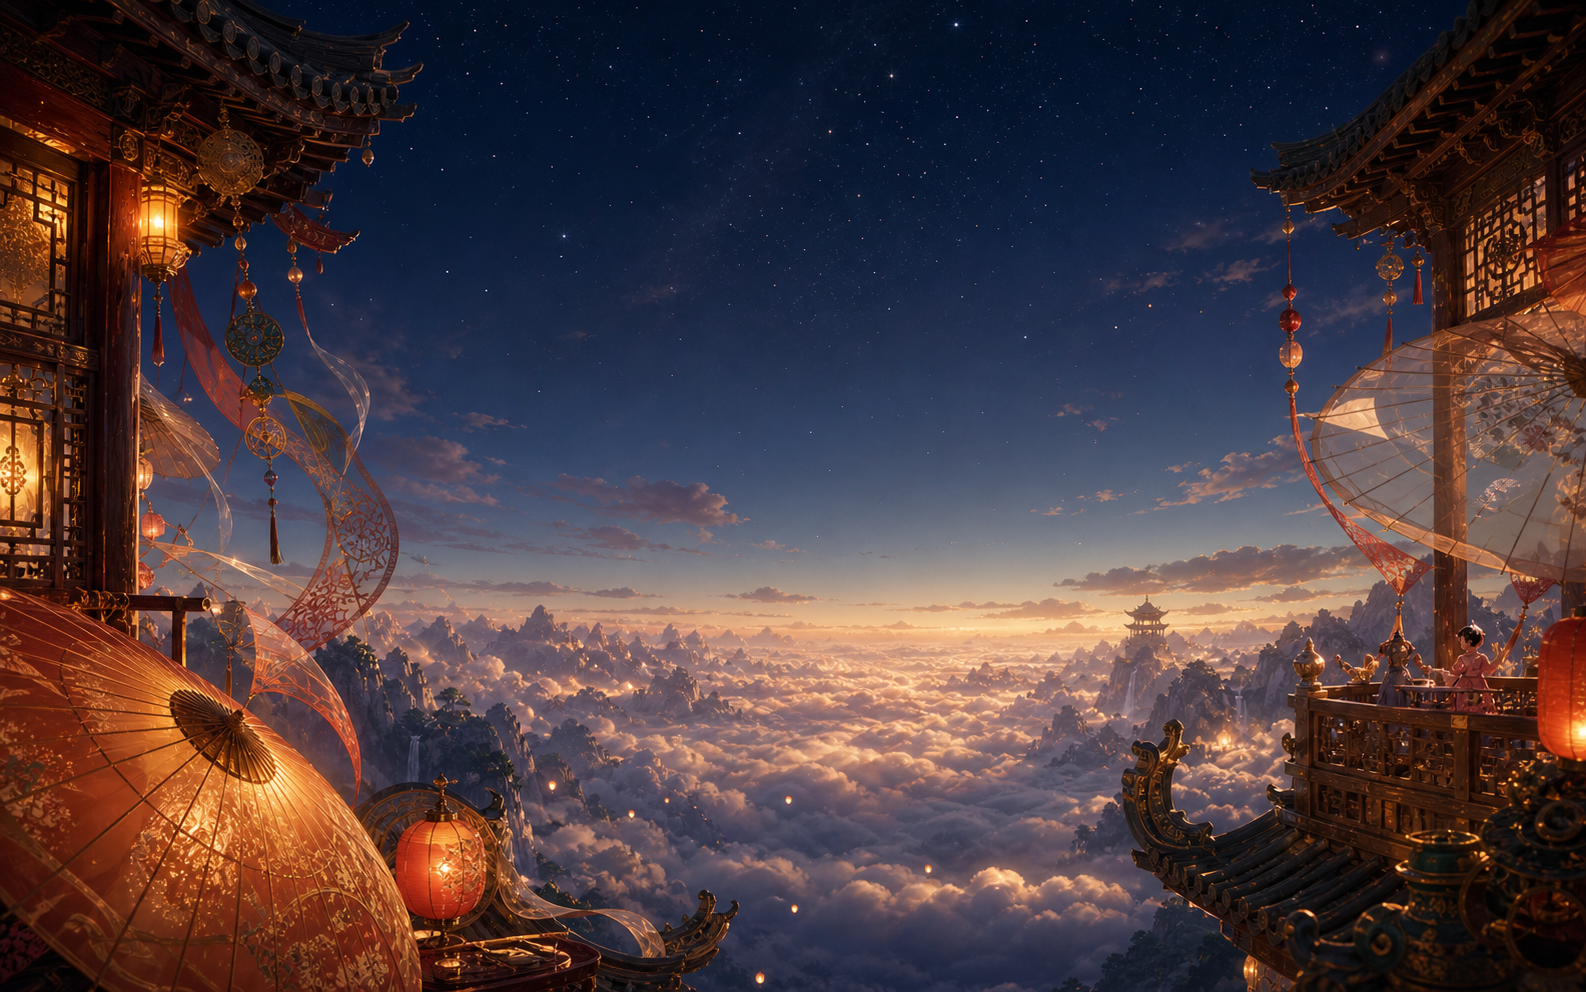
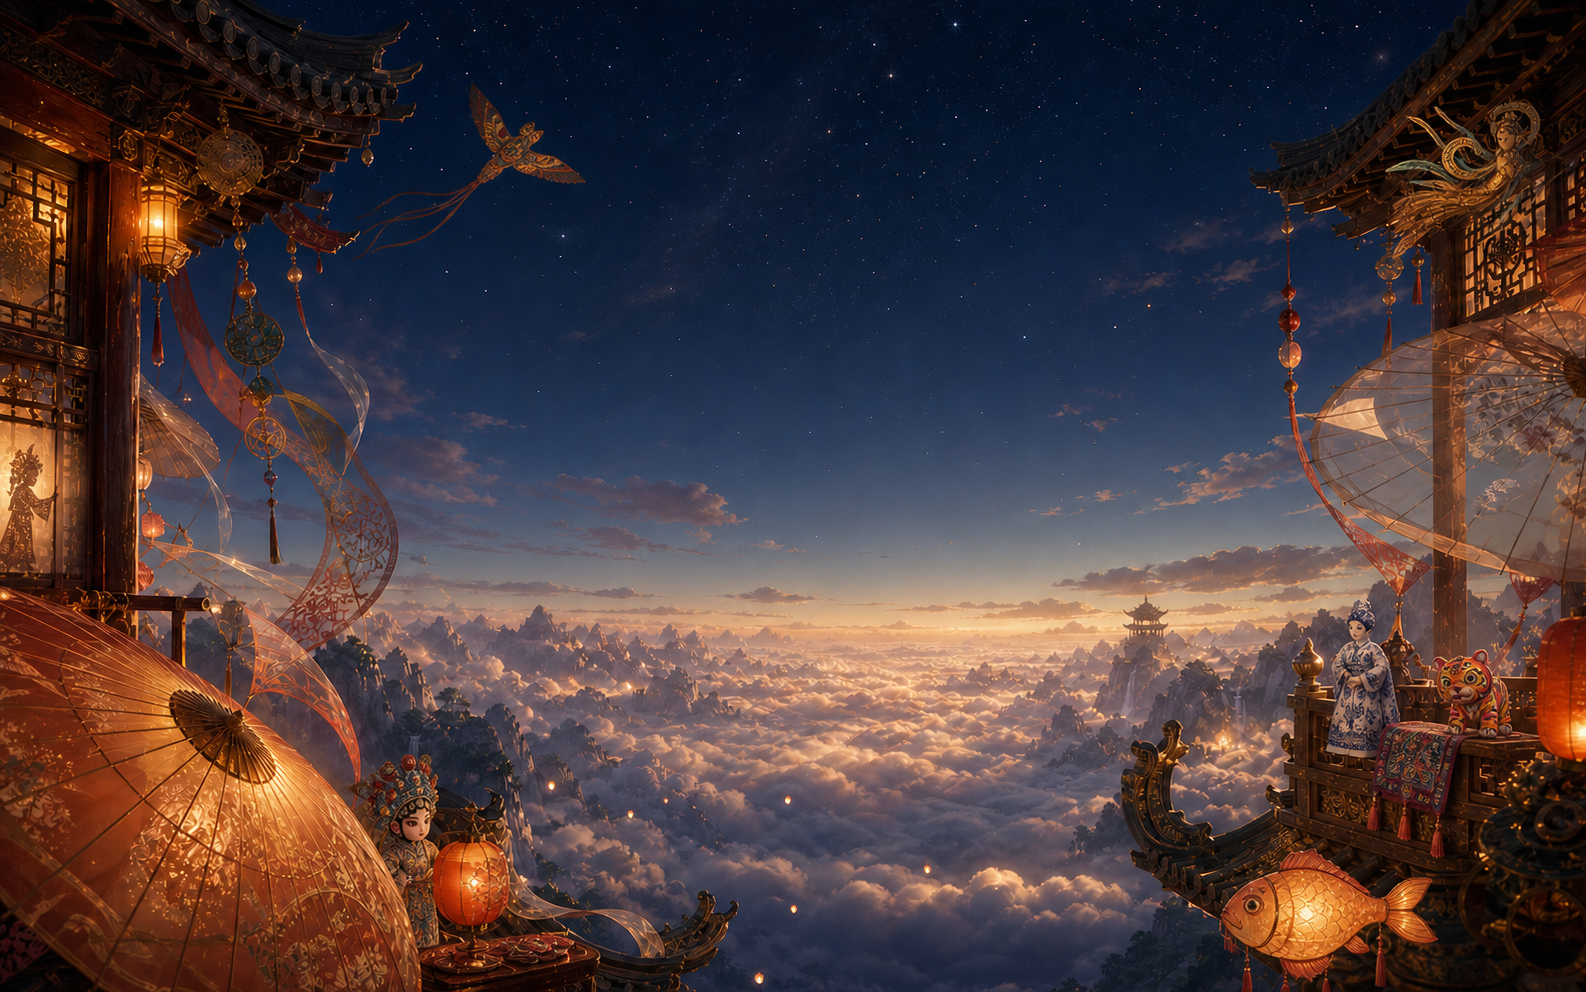
Center fish model on clean heritage backdrop

diff --git a/styles.css b/styles.css
@@ -532,10 +532,10 @@ button { font: inherit; color: inherit; }
 }
 .result-model-stage {
   position: absolute;
-  left: 34%;
-  top: 12%;
-  width: 41%;
-  height: 63%;
+  left: 51%;
+  top: 9%;
+  width: 45%;
+  height: 68%;
   translate: -50% 18px;
   z-index: 4;
   opacity: 0;
@@ -693,30 +693,45 @@ button { font: inherit; color: inherit; }
 .is-active .result-actions { opacity: 1; }
 
 .scene-result.has-3d-model .reveal-card {
-  left: 72%;
-  top: 31%;
-  width: 24%;
-  min-height: 31%;
-  padding: 24px 25px;
-  background: linear-gradient(135deg, rgba(10,20,42,.82), rgba(44,20,23,.7));
-  border-left: 2px solid rgba(244,193,103,.72);
-  box-shadow: 0 22px 55px rgba(3,7,18,.36), inset 0 1px rgba(255,225,159,.08);
-  backdrop-filter: blur(8px);
+  left: 7%;
+  top: 32%;
+  width: 23%;
+  min-height: 30%;
+  place-items: start;
+  align-content: center;
+  padding: 8px 18px;
+  text-align: left;
+  background: none;
+  border: 0;
+  box-shadow: none;
+  backdrop-filter: none;
+  transform: translate(0, 25px) scale(.94);
+}
+.scene-result.has-3d-model.is-active .reveal-card {
+  transform: translate(0, 0) scale(1);
+}
+.scene-result.has-3d-model .reveal-card::before,
+.scene-result.has-3d-model .reveal-card::after,
+.scene-result.has-3d-model .reveal-halo {
+  display: none;
 }
 .scene-result.has-3d-model .reveal-card h1 {
-  margin: 10px 0 12px;
-  font-size: clamp(28px, 3vw, 48px);
+  margin: 11px 0 13px;
+  font-size: clamp(30px, 3.4vw, 54px);
+  letter-spacing: .18em;
+  text-shadow: 0 3px 22px rgba(7,14,31,.88);
 }
 .scene-result.has-3d-model .reveal-card p {
-  width: 94%;
-  margin-bottom: 15px;
-  font-size: clamp(8px, .74vw, 12px);
+  width: 100%;
+  margin-bottom: 16px;
+  font-size: clamp(9px, .78vw, 13px);
   line-height: 2;
+  text-shadow: 0 2px 13px rgba(5,10,26,.95);
 }
 .scene-result.has-3d-model .result-actions {
-  left: 34%;
-  top: 77%;
-  gap: 16px;
+  left: 51%;
+  top: 79%;
+  gap: 14px;
 }
 .scene-result.has-3d-model .result-actions button {
   font-size: clamp(9px, .72vw, 12px);
